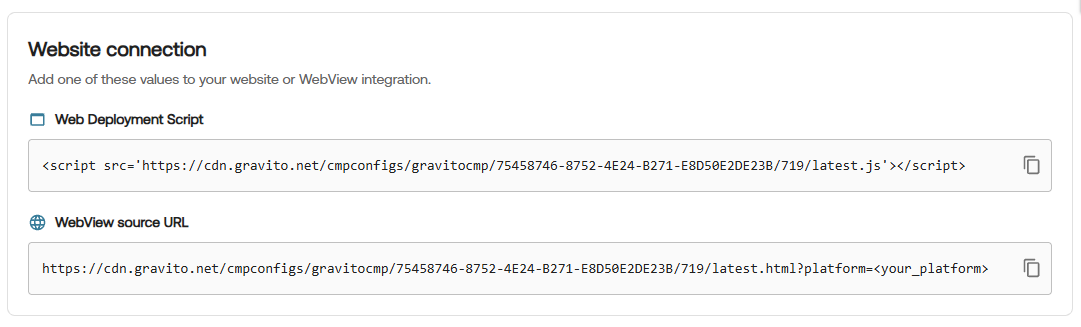
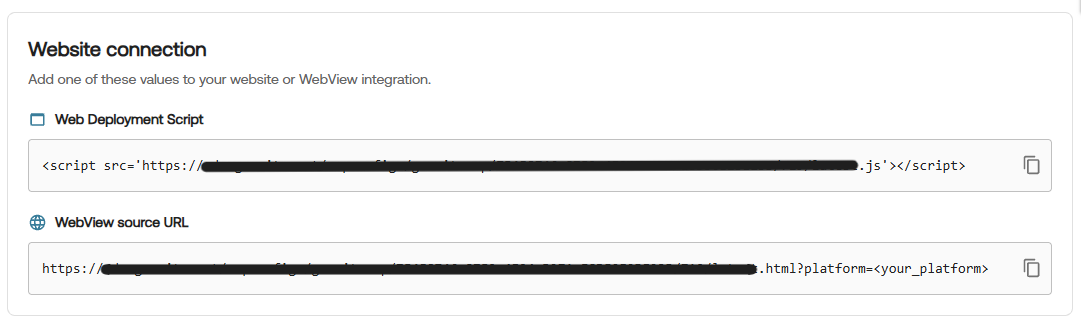
updated docs and images

Changed region(s): [[0.0916, 0.7951, 0.7021, 0.8563], [0.1832, 0.4893, 0.7937, 0.5505]]

diff --git a/docs/Gravito_V6_CMP/Deployment.md b/docs/Gravito_V6_CMP/Deployment.md
@@ -1,6 +1,8 @@
-# Deployment for Gravito CMP (New) Configuration
+# Deployment for Gravito CMP Configuration
 
-All deployment-related actions for Gravito CMP (New) are handled through the **Deployment** tab in the Gravito CMP (New) Configurator. This tab is available as the last tab in the sidebar of the configurator.
+**Note:** We have moved to a new deployment process. If you need support related to the old deployment process, please contact our [support team](../Getting_started/Support.md).
+
+All deployment-related actions for Gravito CMP are handled through the **Deployment** tab in the Gravito CMP Configurator. This tab is available as the last tab in the sidebar of the configurator.
 
 ![](./img/deployment_highlight.png)
 
@@ -73,7 +75,7 @@ This option allows you to quickly integrate Gravito's CMP with your website usin
     | Field                          | Description                                                                 |
     |--------------------------------|-----------------------------------------------------------------------------|
     | **Gravito Token**              | Paste the **CMP token** copied from Gravito portal                          |
-    | **Gravito CMP type**           | Select **Gravito CMP (New)**              |
+    | **Gravito CMP type**           | Select **Gravito CMP**              |
     | ✅ **Enable Google Consent Mode** | Enable this to activate GCM support                                       |
 
     ---

diff --git a/docs/Gravito_V6_CMP/Release_Notes.md b/docs/Gravito_V6_CMP/Release_Notes.md
@@ -9,7 +9,7 @@ Bug Fixes:
 
 Improvements:
 
-- Updated the CMP to support `TCF 2.4 compliance`, including the latest TCF UI requirements. The CMP now displays the required standard user-friendly text and illustrations.
+- Updated the CMP to support [TCF 2.4 compliance](https://iabeurope.eu/wp-content/uploads/TCF_V-CMP_comms_TCFpoliciesAmendmentsMulti-deviceConsentTCFUIimprovementsSpecialFeature2Clarification_290526_IABEurope.pdf), including the latest TCF UI requirements. The CMP now displays the required standard user-friendly text and illustrations.
 - Upgraded the IAB TCF libraries to `v1.5.22`.
 
 ## Release Notes 6.6.0 (04/08/2026)
